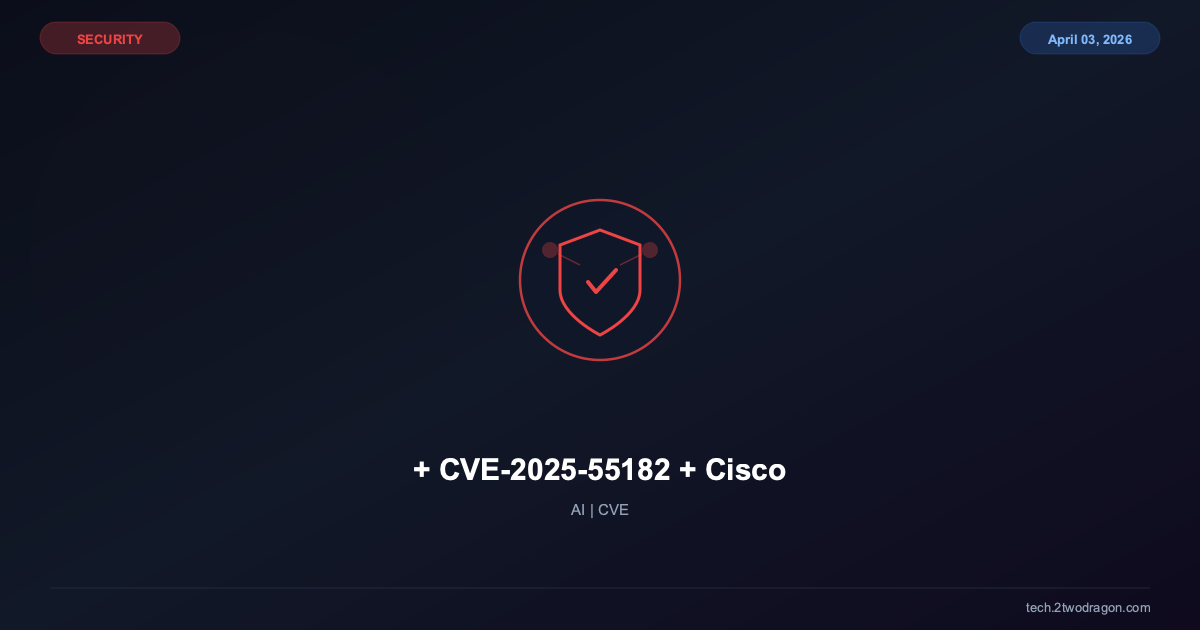
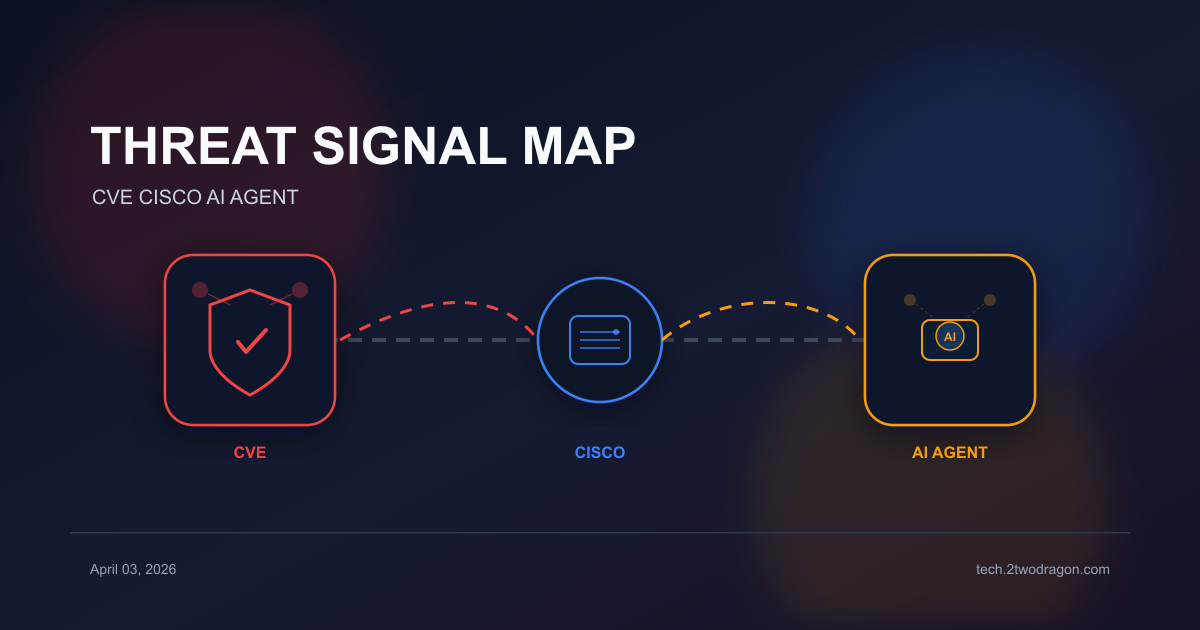
fix: 뉴스 카드 이미지 로드 실패 수정 및 OG PNG 누락 보완
- news-card.html: url_encode가 전체 favicon URL을 인코딩하던 버그 수정
- 04/03 SVG: THREAT SIGNAL MAP 스타일로 재작성 (CVE, CISCO, AI AGENT)
- 04/03, 04/04, 04/05 OG PNG 생성/재생성

diff --git a/_includes/news-card.html b/_includes/news-card.html
@@ -26,7 +26,8 @@
 {% assign severity_class = severity_label | downcase %}
 {% assign card_image = include.image | default: '' %}
 {% if card_image == '' and include.url %}
-  {% assign card_image = 'https://www.google.com/s2/favicons?sz=256&domain_url=' | append: include.url | url_encode %}
+  {% assign encoded_url = include.url | url_encode %}
+  {% assign card_image = 'https://www.google.com/s2/favicons?sz=256&domain_url=' | append: encoded_url %}
 {% endif %}
 {% assign card_summary = include.summary | default: '' %}
 {% if card_summary == '' %}
